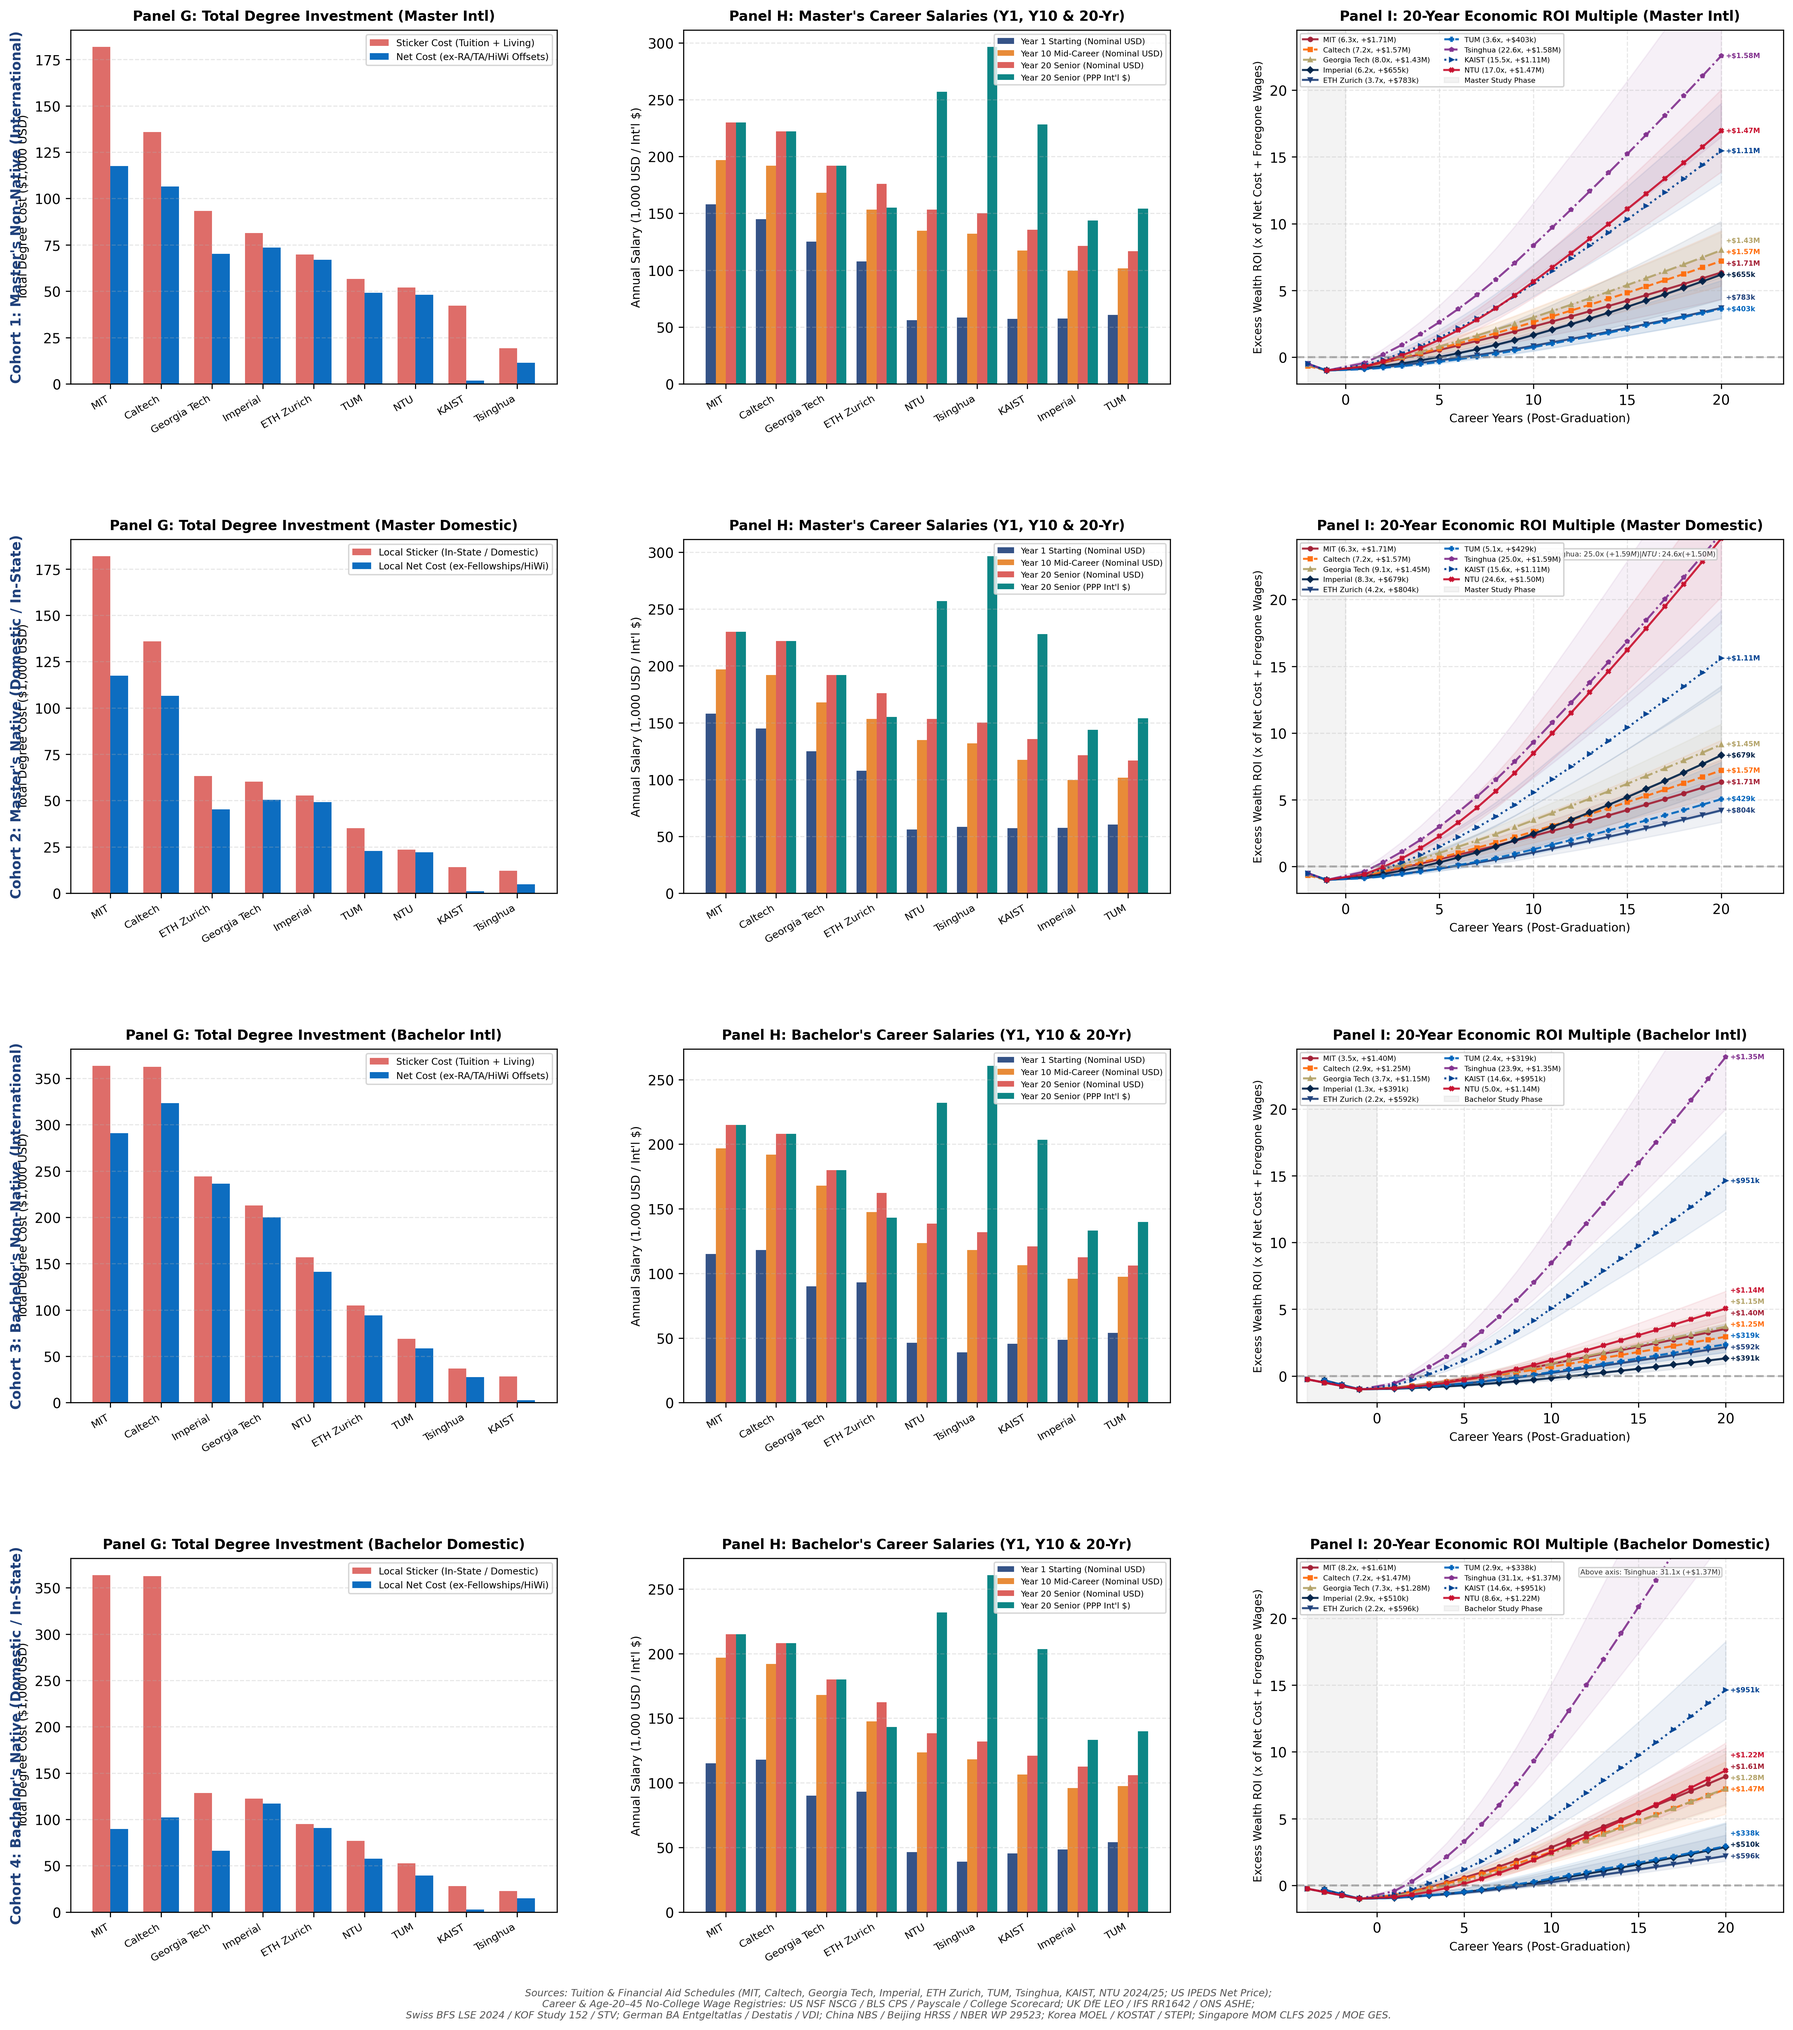
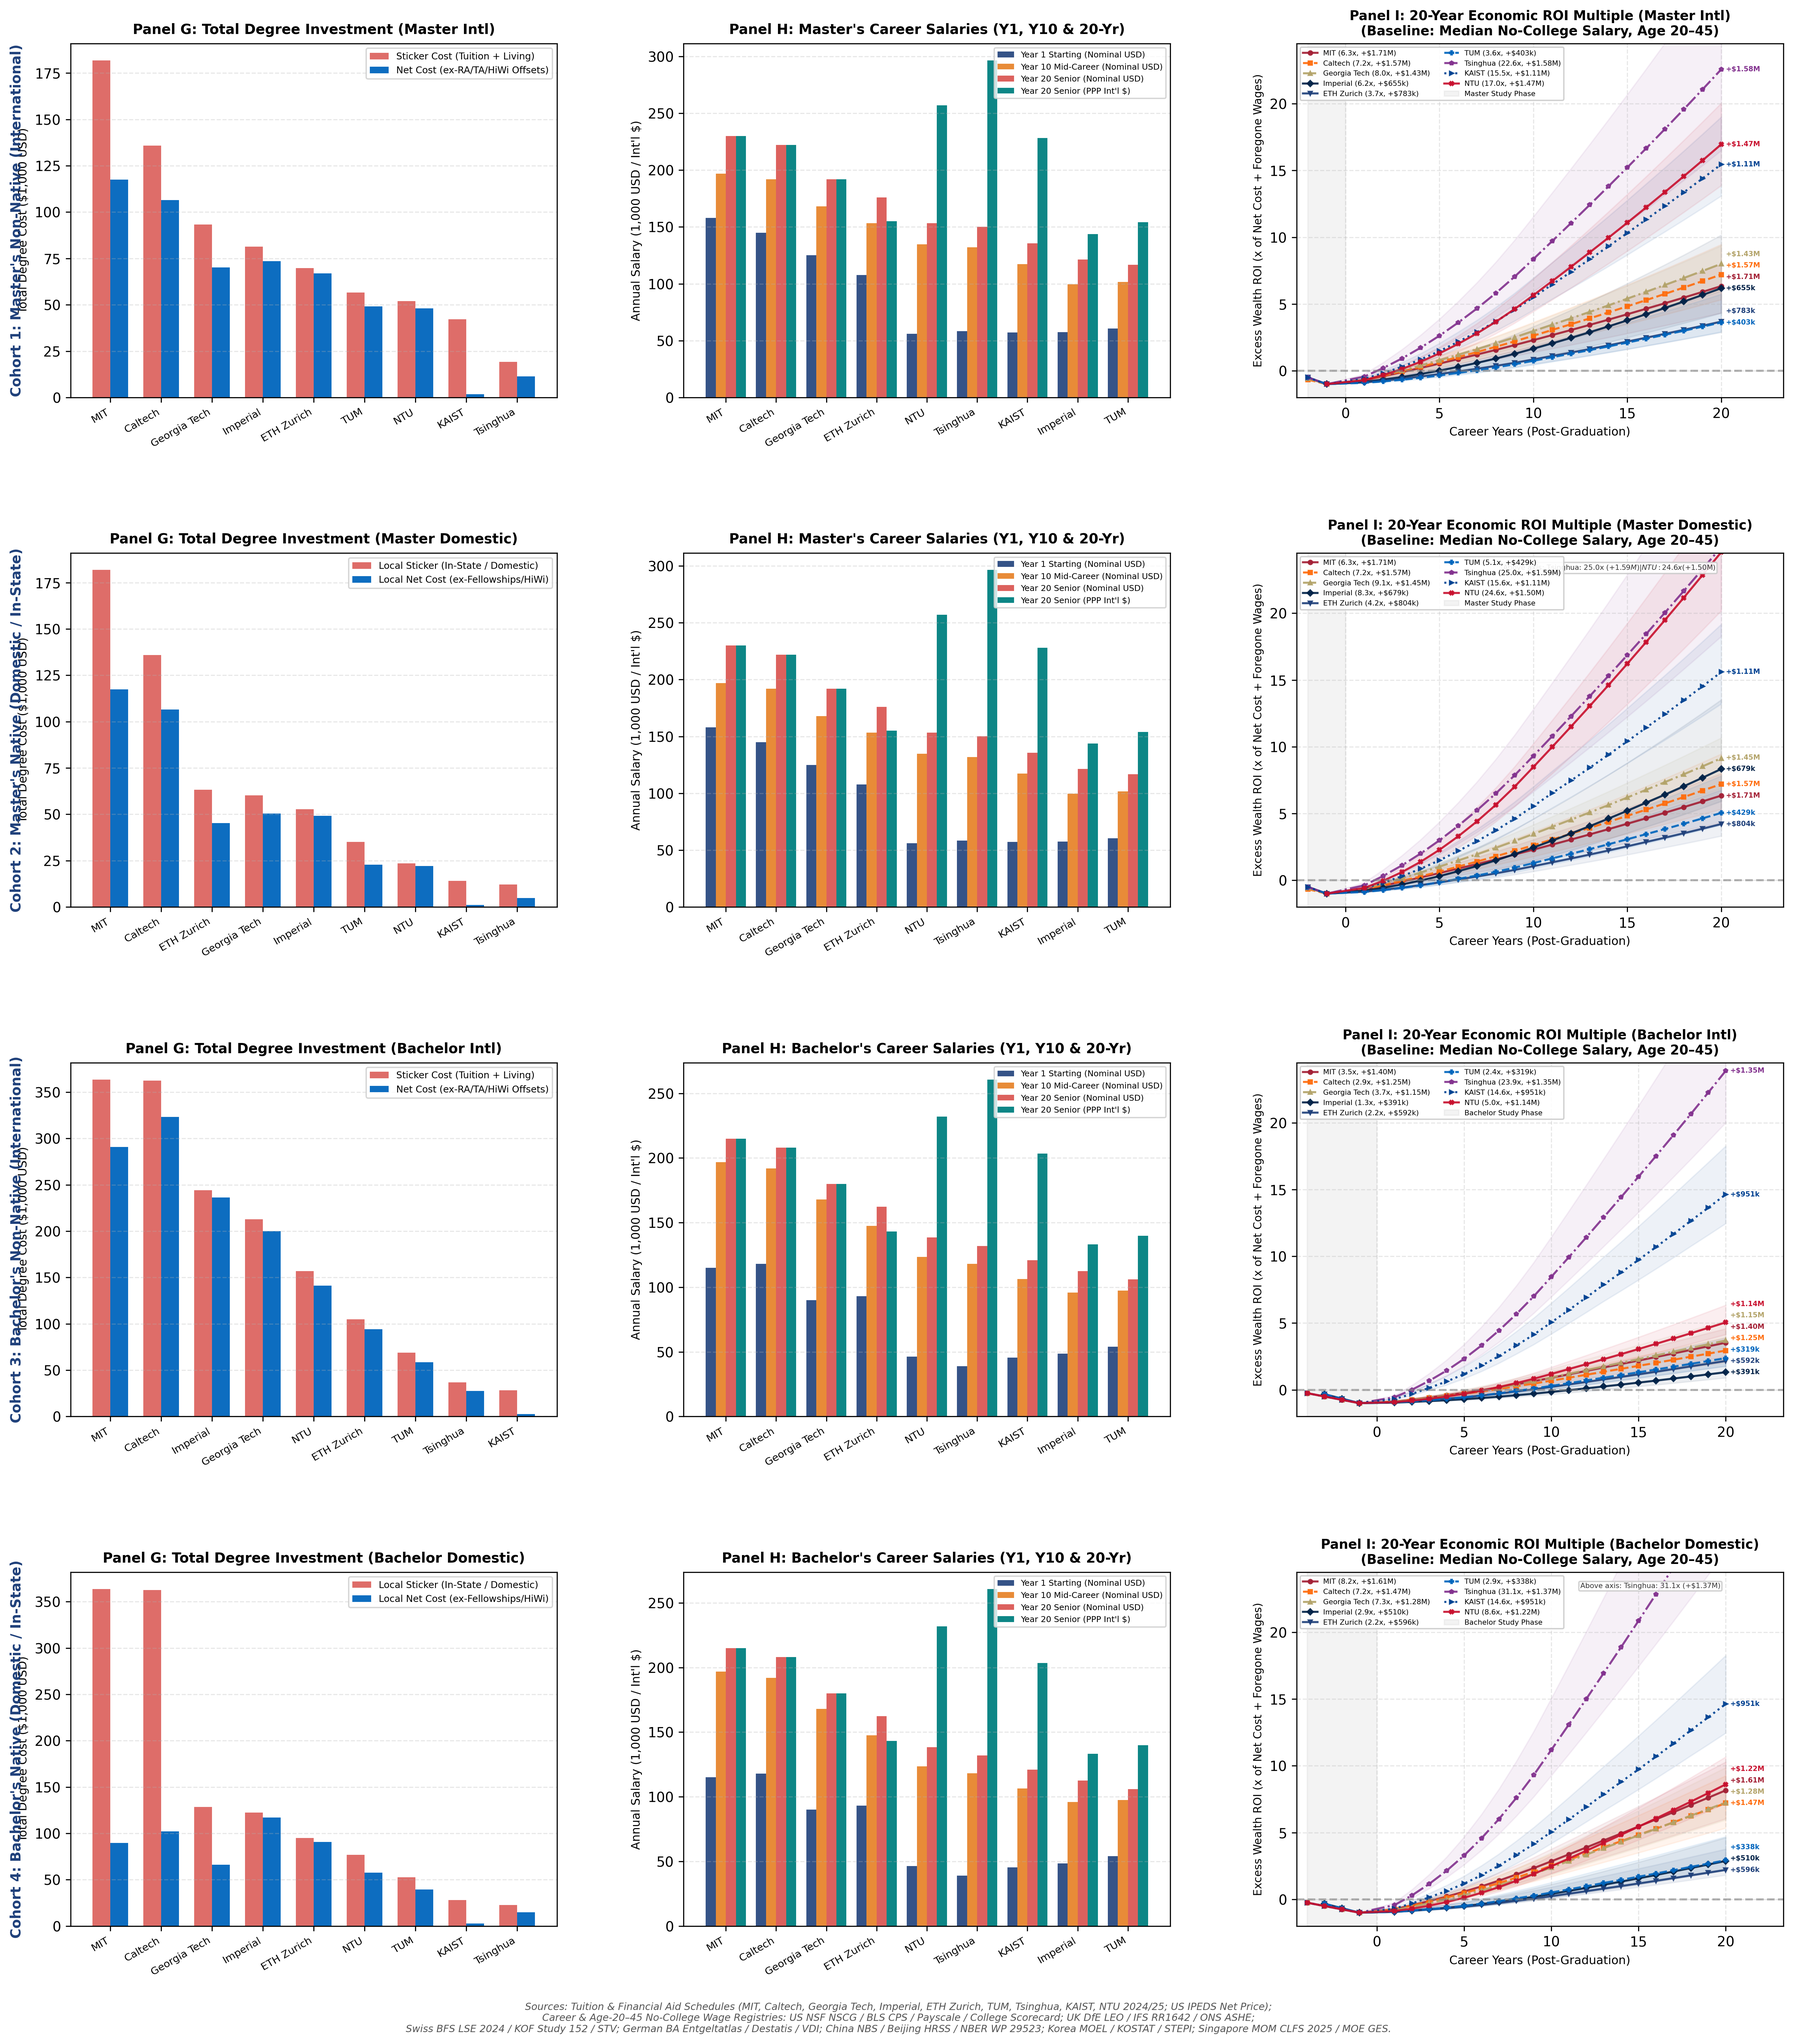
improved title

diff --git a/src/modeling.py b/src/modeling.py
@@ -722,9 +722,15 @@ def render_panel_i(ax, data, lang="en", is_standalone=False, degree_level="Maste
     ax.set_xlabel("Career Years (Post-Graduation)" if lang == "en" else "Karrierejahre nach Abschluss", fontsize=8.5 if not is_standalone else 11)
     ax.set_ylabel("Excess Wealth ROI (x of Net Cost + Foregone Wages)" if lang == "en" else "Überrendite-ROI (x aus Nettokosten + Opportunitätslohn)", fontsize=8.0 if not is_standalone else 10.5)
 
-    title_en = f"Panel I: 20-Year Economic ROI Multiple ({cohort_tag})"
-    title_de = f"Panel I: 20-Jahres-Wirtschafts-ROI ({cohort_tag_de})"
-    ax.set_title(title_en if lang == "en" else title_de, fontsize=10 if not is_standalone else 13, fontweight="bold", pad=7)
+    title_en = (
+        f"Panel I: 20-Year Economic ROI Multiple ({cohort_tag})\n"
+        f"(Baseline: Median No-College Salary, Age 20–45)"
+    )
+    title_de = (
+        f"Panel I: 20-Jahres-Wirtschafts-ROI ({cohort_tag_de})\n"
+        f"(Basis: Median-Gehalt ohne Studium, Alter 20–45)"
+    )
+    ax.set_title(title_en if lang == "en" else title_de, fontsize=9.5 if not is_standalone else 12.5, fontweight="bold", pad=6)
     ax.legend(fontsize=5.2 if not is_standalone else 7.5, loc="upper left", ncol=2, framealpha=0.9)
     ax.grid(True, linestyle="--", alpha=0.3)
 
